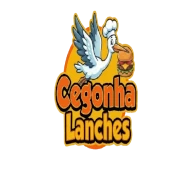
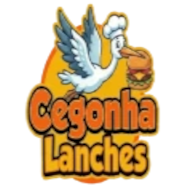
novos icones

diff --git a/sw.js b/sw.js
@@ -1,4 +1,4 @@
-const CACHE_NAME = "cegonha-v1";
+const CACHE_NAME = "cegonha-v1.1";
 const ASSETS_TO_CACHE = [
   "./",
   "./index.html",
